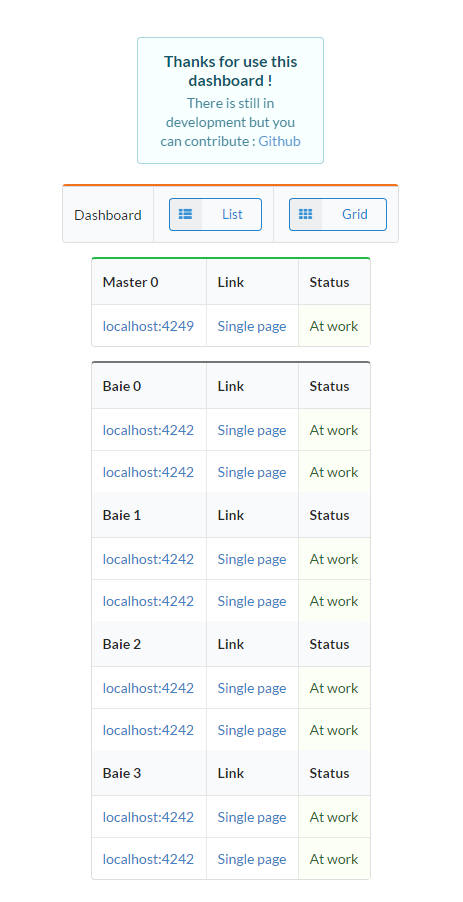
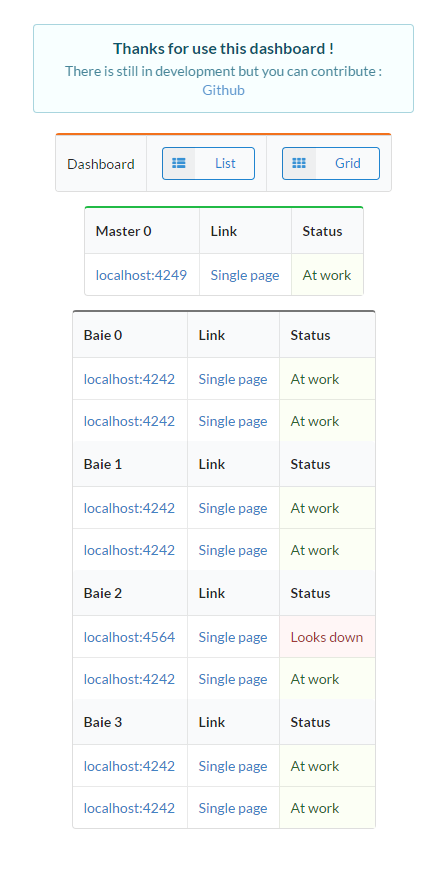
add ping check & change image for example

diff --git a/client/index.php b/client/index.php
@@ -1,3 +1,23 @@
+<?php
+
+function ping($url)  {  
+  
+    $ch = curl_init($url);  
+    curl_setopt($ch, CURLOPT_TIMEOUT, 5);  
+    curl_setopt($ch, CURLOPT_CONNECTTIMEOUT, 5);  
+    curl_setopt($ch, CURLOPT_RETURNTRANSFER, true);  
+    $data = curl_exec($ch);  
+    $httpcode = curl_getinfo($ch, CURLINFO_HTTP_CODE);  
+    curl_close($ch);  
+
+    if($httpcode >= 200 && $httpcode < 300){  
+        return true;  
+        
+    } else {  
+        return false;  
+    }  
+}
+?>
 <!DOCTYPE html>
 <html>
 <head>
@@ -55,7 +75,13 @@
 			<td>
 			<a href="single.php?group=<?= $i ?>&rig=<?= $r ?>" target="_blank">Single page</a>
 			</td>
-			<td class="positive">At work</td>
+			<?php
+				if (ping($k)) {
+					echo '<td class="positive">At work</td>';
+				} else {
+					echo '<td class="negative">Look\'s down</td>';
+				}
+			?>
 		</tr>
 		<?php
 				$r++;
@@ -97,7 +123,13 @@
 			<td>
 			<a href="single.php?group=<?= $i ?>&rig=<?= $r ?>" target="_blank">Single page</a>
 			</td>
-			<td class="positive">At work</td>
+			<?php
+				if (ping($k)) {
+					echo '<td class="positive">At work</td>';
+				} else {
+					echo '<td class="negative">Looks down</td>';
+				}
+			?>
 		</tr>
 		<?php
 				$r++;
